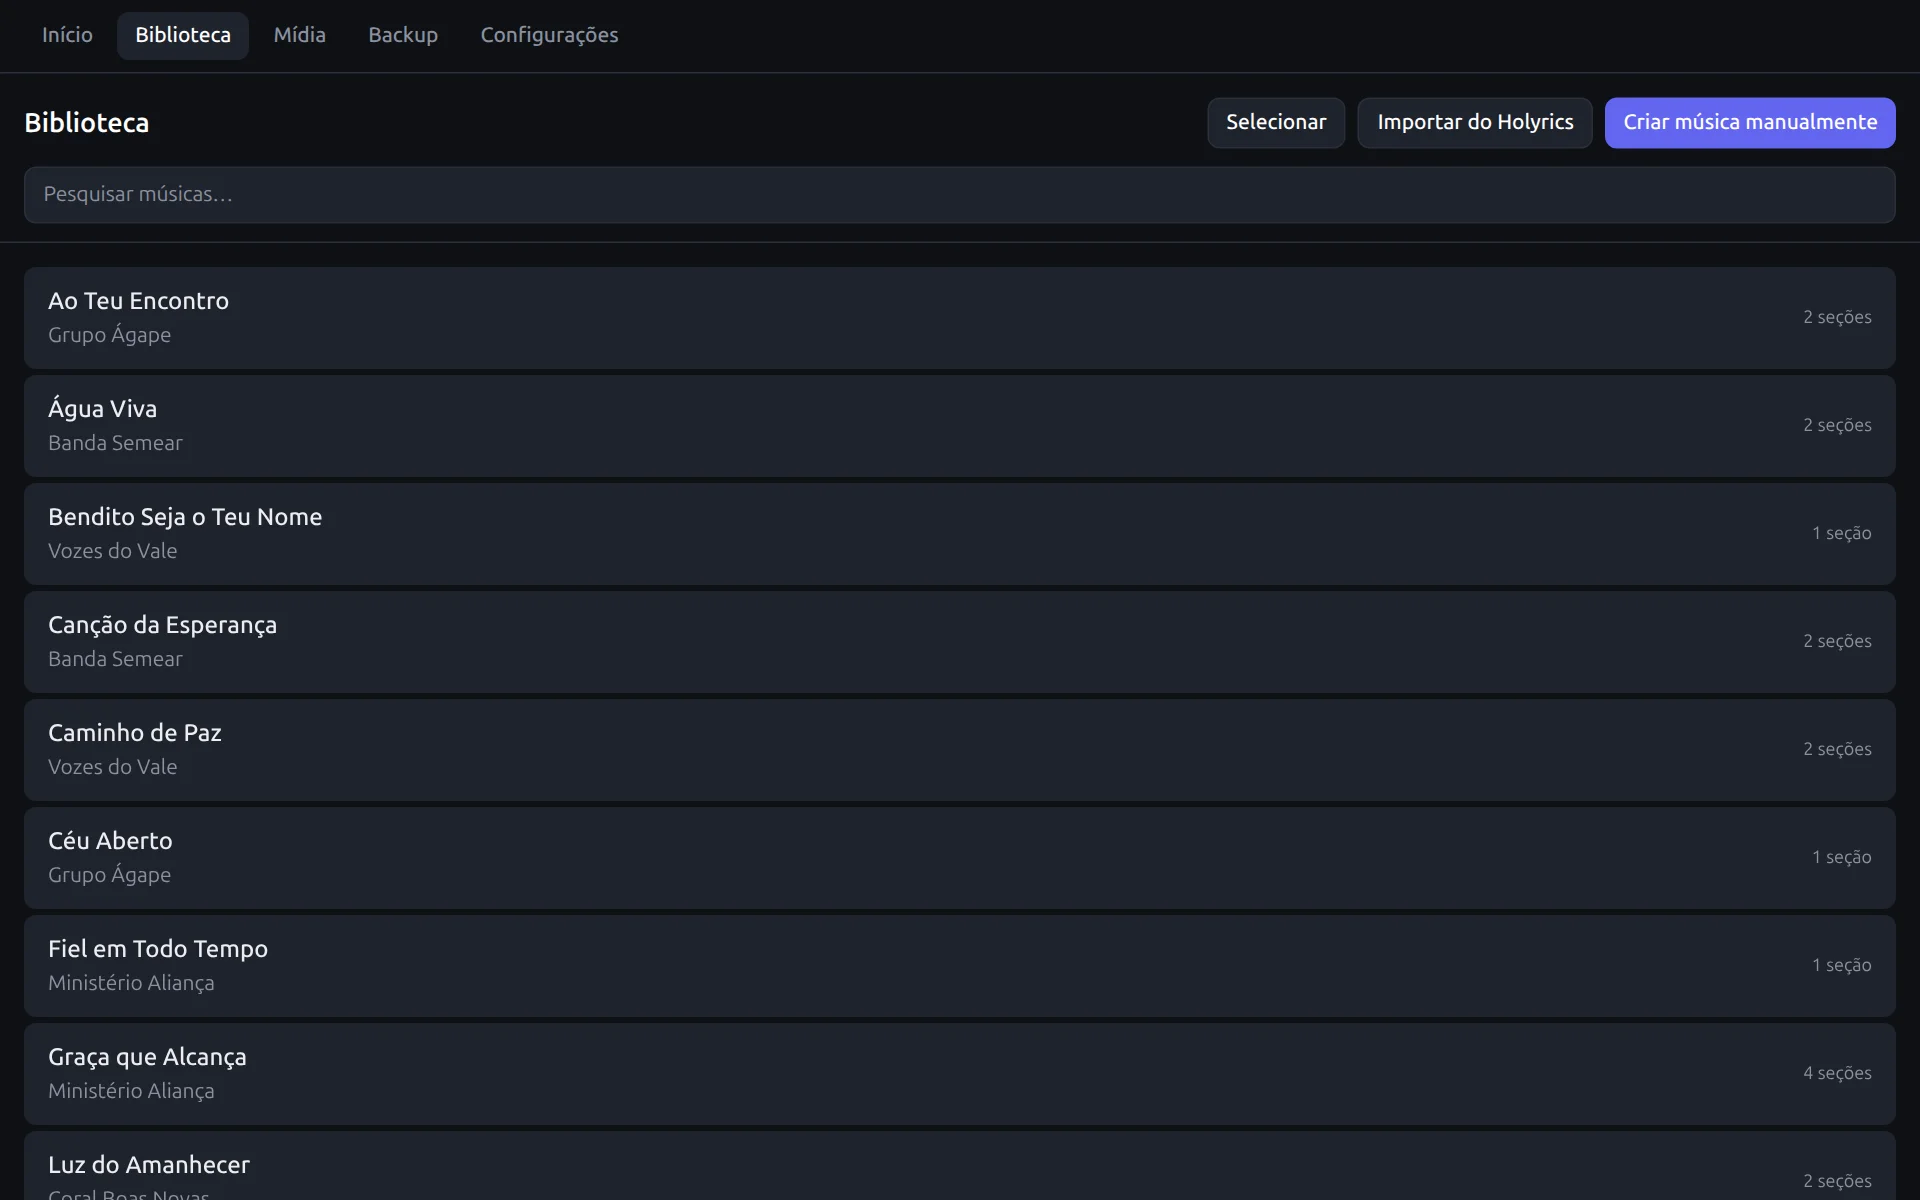
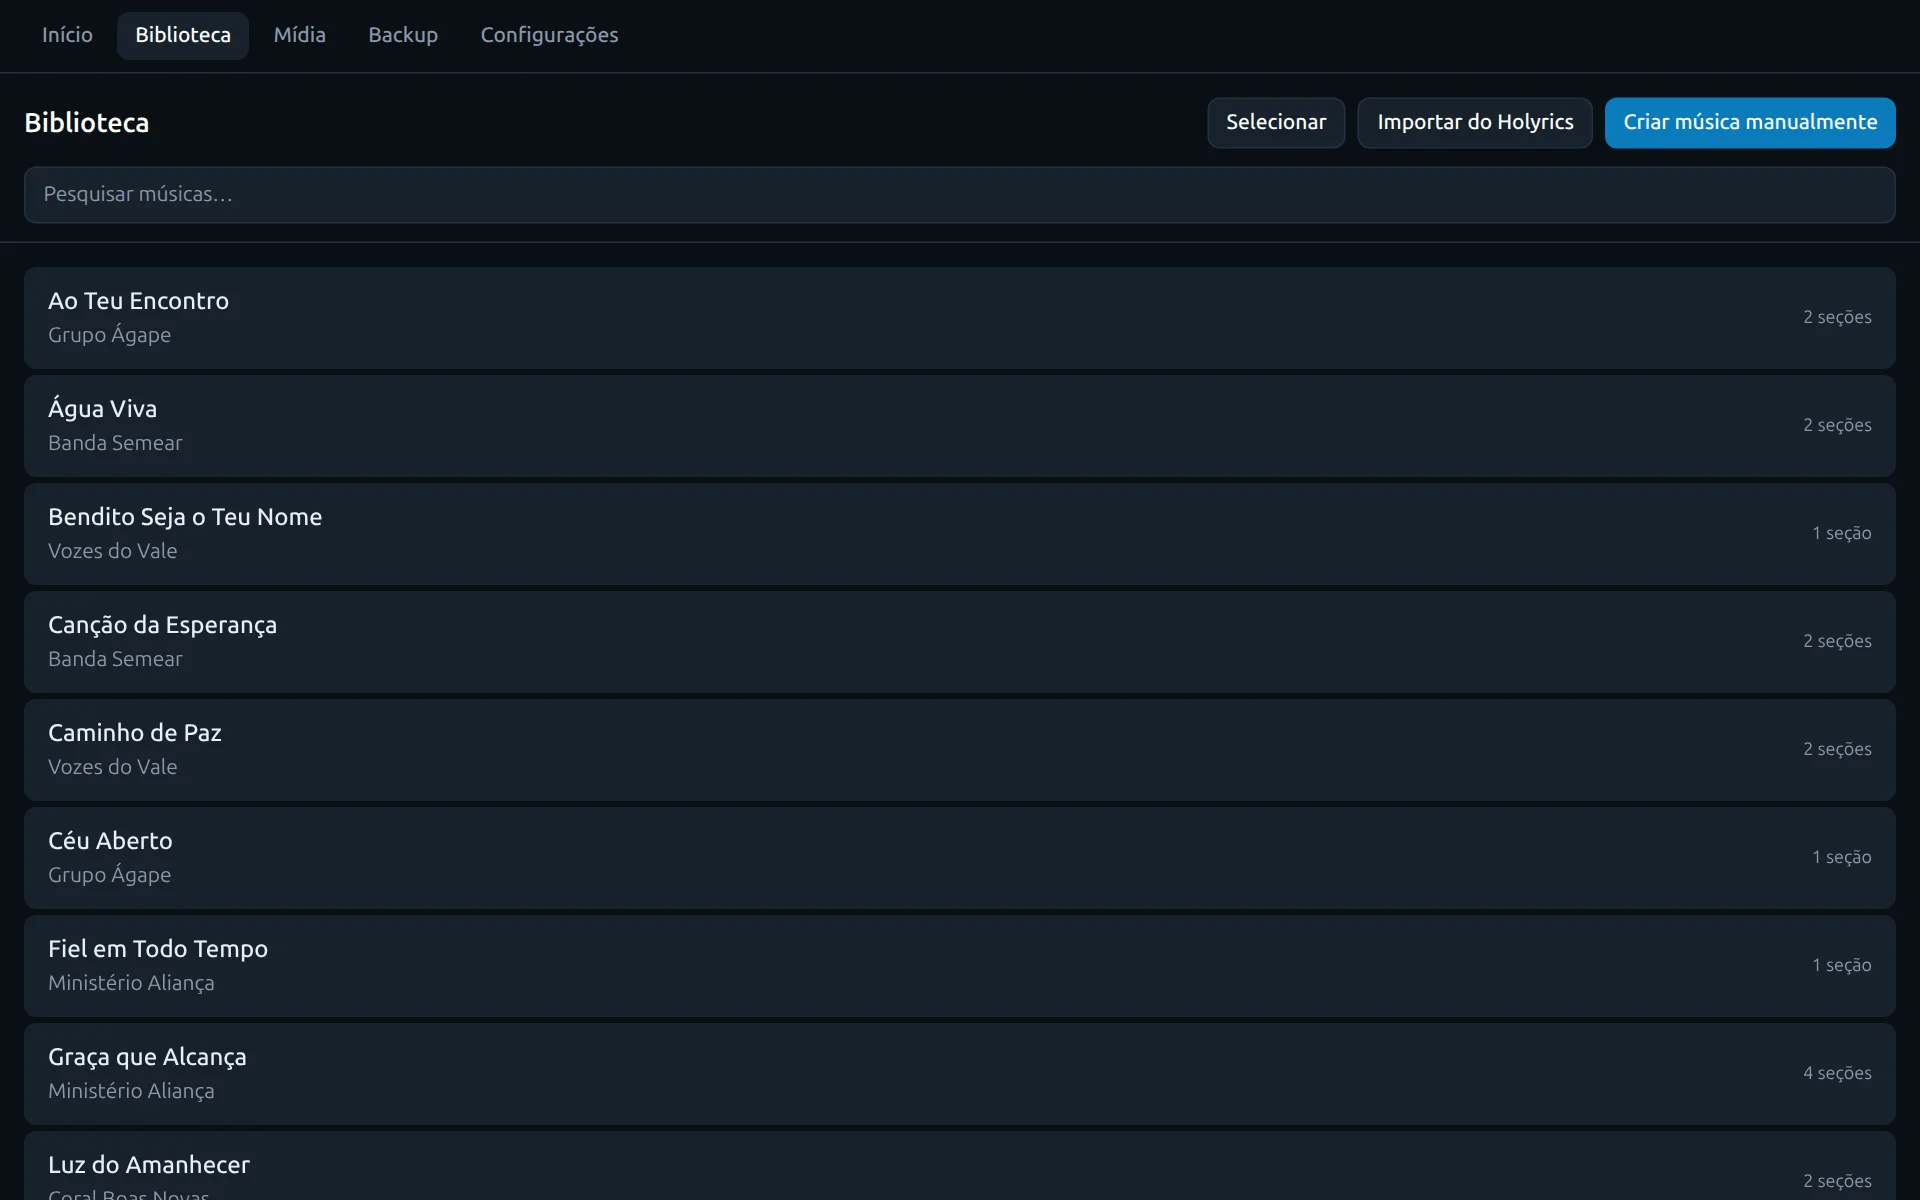
docs(guia): new brand on the user guide site
Azure accent, night-blue dark mode, the window as logo and favicon, the
inscribed window as the home hero and the site name in Cinzel. Every screenshot
regenerated with the new palette; Primeiros passos mentions the opening and how
to skip it.

Changed region(s): [[0.8125, 0.0617, 1.0, 0.1233]]

diff --git a/docs/.vitepress/theme/custom.css b/docs/.vitepress/theme/custom.css
@@ -1,21 +1,46 @@
-/* Cores da marca: o degradê índigo → violeta do ícone do app (#6366F1 → #A78BFA). */
+/* Fonte da marca: Cinzel, as capitais romanas do vitral (licença SIL OFL em
+   fonts/Cinzel-LICENSE.txt). Só no nome "Lyrizzy" da barra e da página inicial. */
+@font-face {
+  font-family: 'Cinzel';
+  font-style: normal;
+  font-weight: 700;
+  font-display: swap;
+  src: url('./fonts/Cinzel-Bold.woff2') format('woff2');
+}
+
+/* Cores da marca: o vitral da Trindade do ícone do app (src/brand/shield.ts),
+   do azul-cobalto ao ciano da luz atravessando o vidro. */
 :root {
-  --vp-c-brand-1: #4f46e5;
-  --vp-c-brand-2: #6366f1;
-  --vp-c-brand-3: #6366f1;
-  --vp-c-brand-soft: rgba(99, 102, 241, 0.14);
+  --vp-c-brand-1: #0a6fae;
+  --vp-c-brand-2: #0b7ec0;
+  --vp-c-brand-3: #0a6fae;
+  --vp-c-brand-soft: rgba(11, 126, 192, 0.14);
 
   --vp-home-hero-name-color: transparent;
-  --vp-home-hero-name-background: linear-gradient(120deg, #6366f1 25%, #a78bfa);
-  --vp-home-hero-image-background-image: linear-gradient(-45deg, #6366f1 50%, #a78bfa 50%);
+  --vp-home-hero-name-background: linear-gradient(120deg, #0b4e9c 10%, #0b7ec0 45%, #1eb8ec);
+  --vp-home-hero-image-background-image: radial-gradient(circle, #4fd6ff 0%, #1eb8ec 45%, #0b4e9c 100%);
   --vp-home-hero-image-filter: blur(56px);
 }
 
+/* Modo escuro: o azul-noite em volta de um vitral aceso. */
 .dark {
-  --vp-c-brand-1: #a5b4fc;
-  --vp-c-brand-2: #818cf8;
-  --vp-c-brand-3: #6366f1;
-  --vp-c-brand-soft: rgba(129, 140, 248, 0.16);
+  --vp-c-bg: #0a0f15;
+  --vp-c-bg-alt: #070b10;
+  --vp-c-bg-elv: #111821;
+  --vp-c-bg-soft: #111821;
+
+  --vp-c-brand-1: #4fd6ff;
+  --vp-c-brand-2: #1eb8ec;
+  --vp-c-brand-3: #0a7bbc;
+  --vp-c-brand-soft: rgba(30, 184, 236, 0.16);
+
+  --vp-home-hero-name-background: linear-gradient(120deg, #1eb8ec 10%, #4fd6ff 45%, #bdf3ff);
+}
+
+.VPNavBarTitle .title,
+.VPHero .name {
+  font-family: 'Cinzel', 'Trajan Pro', Georgia, serif;
+  letter-spacing: 0.04em;
 }
 
 @media (min-width: 640px) {

diff --git a/docs/index.md b/docs/index.md
@@ -7,8 +7,8 @@ hero:
   text: Letras, mídia e cronômetro no telão da igreja
   tagline: Guia para quem opera a projeção do culto, do primeiro uso ao domingo de casa cheia.
   image:
-    src: /logo.svg
-    alt: Ícone do Lyrizzy
+    src: /brasao.svg
+    alt: "A marca do Lyrizzy: o Escudo da Trindade em vitral, com Pai, Filho e Espírito Santo ligados a Deus"
   actions:
     - theme: brand
       text: Começar

diff --git a/docs/guia/primeiros-passos.md b/docs/guia/primeiros-passos.md
@@ -22,6 +22,8 @@ Para usar **dois telões** (por exemplo, projetor e TV lateral), veja [Duas tela
 
 ## 2. Conheça a janela do operador
 
+Ao abrir, o Lyrizzy acende por alguns segundos o vitral da Trindade, a marca do app. Para ir direto ao trabalho, aperte qualquer tecla ou clique.
+
 Na faixa de cima ficam as áreas do app:
 
 | Menu | Para que serve |
